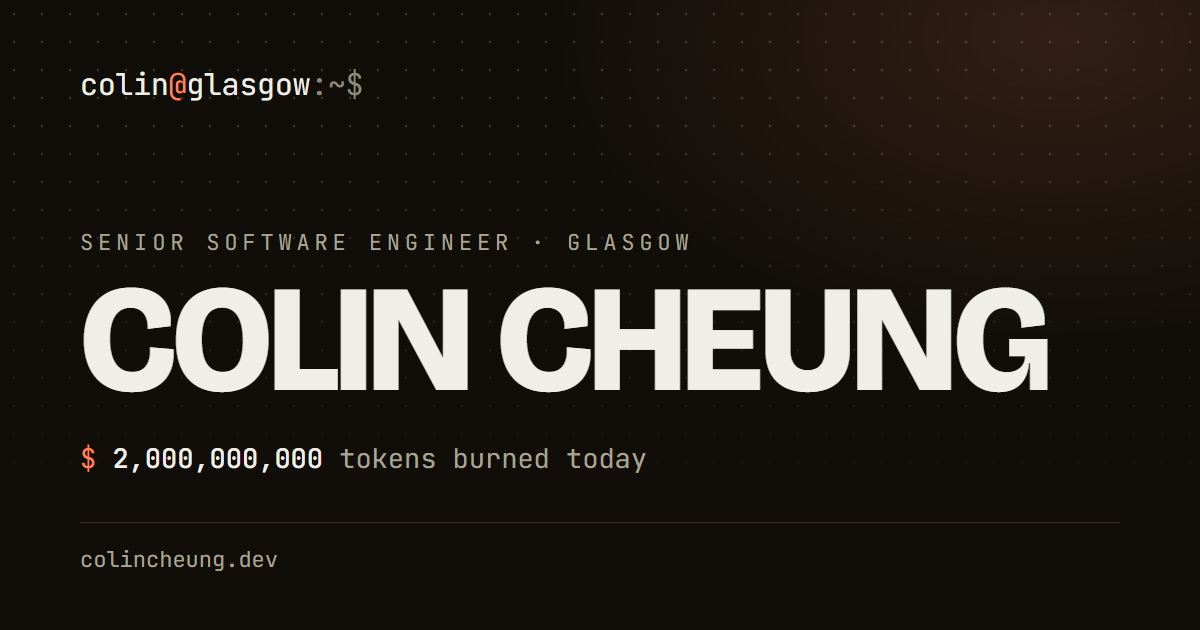
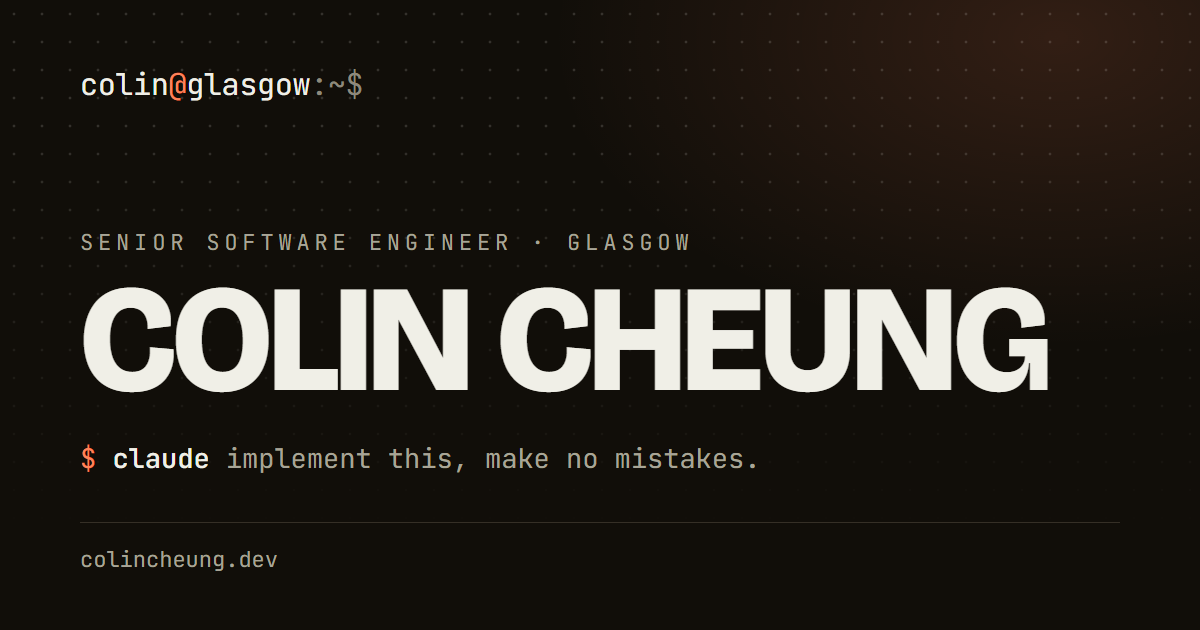
Preview image: "claude implement this, make no mistakes." one-liner

Changed region(s): [[0.0925, 0.6937, 0.6167, 0.754]]

diff --git a/scripts/og/og.html b/scripts/og/og.html
@@ -114,7 +114,7 @@
       <div class="mark">colin<span>@</span>glasgow<b>:~$</b></div>
       <p class="eyebrow">Senior Software Engineer · Glasgow</p>
       <h1 class="name">COLIN CHEUNG</h1>
-      <p class="quip"><span>$</span> <b>2,000,000,000</b> tokens burned today</p>
+      <p class="quip"><span>$</span> <b>claude</b> implement this, make no mistakes.</p>
       <div class="foot"><span>colincheung.dev</span></div>
     </div>
   </body>
